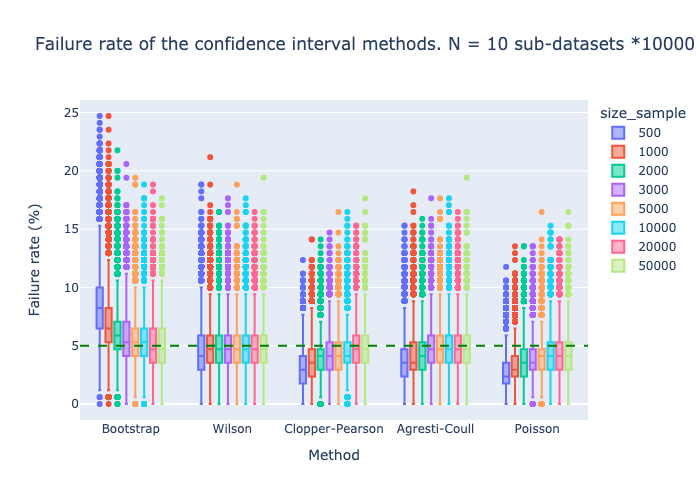
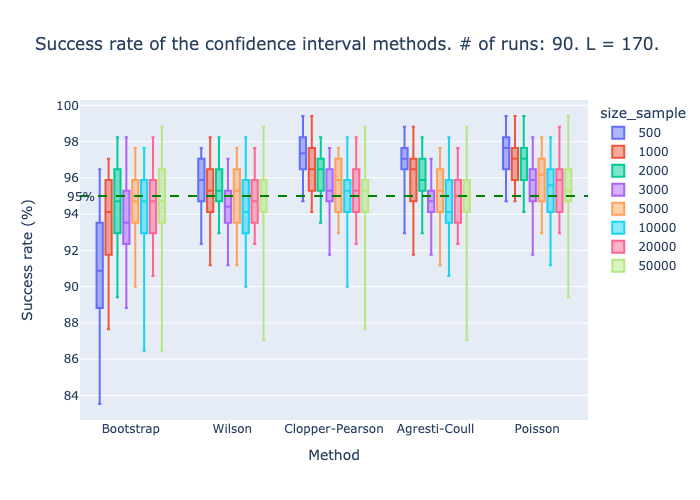
.

diff --git a/src/src.py b/src/src.py
@@ -44,7 +44,9 @@ def predict_confidence_interval_binomial_distribution(observed_freq, size_sample
     return lower_bound, upper_bound
     
     
-def wilson(p, n, z = 1.96):
+def wilson(p, n, z = 1.96, bias_correction=0):
+    
+    p = np.array(p) + bias_correction
     denominator = 1 + z**2/n
     centre_adjusted_probability = p + z*z / (2*n)
     adjusted_standard_deviation = np.sqrt((p*(1 - p) + z*z / (4*n)) / n)
@@ -65,6 +67,8 @@ def predict_confidence_interval_poisson(observed_freq, size_sample, alpha=0.05):
     mut = observed_freq*size_sample
     return 0.5*scipy.stats.chi2.ppf(alpha/2, df=2*mut)/cov, 0.5*scipy.stats.chi2.ppf(1-alpha/2, df=2*(mut+1))/cov
 
+def failure_to_success(arr):
+    return [100 - m for m in arr]
 
 def compare_methods():
     
@@ -142,12 +146,12 @@ def compare_methods():
         
         df = pd.DataFrame(
             {
-                'Bootstrap': np.array(failures['binomial']).flatten(), 
+                'Bootstrap': failure_to_success(np.array(failures['binomial']).flatten()), 
                 #'Binomial': np.array(failures['binomial']).flatten(), 
-                'Wilson': np.array(failures['wilson']).flatten(),
-                'Clopper-Pearson': np.array(failures['clopper_pearson']).flatten(),
-                'Agresti-Coull': np.array(failures['agresti_coull']).flatten(),
-                'Poisson': np.array(failures['poisson']).flatten(),
+                'Wilson': failure_to_success(np.array(failures['wilson']).flatten()),
+                'Clopper-Pearson': failure_to_success(np.array(failures['clopper_pearson']).flatten()),
+                'Agresti-Coull': failure_to_success(np.array(failures['agresti_coull']).flatten()),
+                'Poisson': failure_to_success(np.array(failures['poisson']).flatten()),
                 'size_sample': size_sample,
             })
 
@@ -165,16 +169,14 @@ def compare_methods():
             })
         size_df = pd.concat([size_df, df], axis=0)
         
-    fig = px.box(failures_df, y=[c for c in df.columns if c != 'size_sample'], color='size_sample', title='Failure rate of the confidence interval methods. N = {} sub-datasets *{} datasets. L = 170.'.format(bootstrap_iterations, n_trials_per_dataset, len(os.listdir(DATAPATH))))
-    fig.update_yaxes(title_text="Failure rate (%)")
-    fig.update_xaxes(title_text="Method")
-    # don't show dots
-    fig.update_traces(marker_size=0)
-    
-    
-    # add a horizontal line at y=5 all the way across the figure legend y=5 
-    fig.add_shape(type="line", x0=0, y0=5, x1=1, y1=5, line=dict(color="Green", width=2, dash="dash"), xref="paper", yref="y")
-
+    fig = px.box(failures_df, y=[c for c in df.columns if c != 'size_sample'], color='size_sample', title='Success rate of the confidence interval methods. # of runs: {}. L = 170.'.format(3*n_trials_per_dataset * len(os.listdir(DATAPATH))))
+    fig.update_yaxes(title_text="Success rate (%)")
+    fig.update_xaxes(title_text="Method")    
+    fig.update_traces(boxpoints=False) 
+    #   add a horizontal line at y=5 all the way across the figure legend y=5 
+    fig.add_shape(type="line", x0=0, y0=95, x1=1, y1=95, line=dict(color="Green", width=2, dash="dash"), xref="paper", yref="y")
+    # label that line "95%"
+    fig.add_annotation(x=-0.03, y=95, text="95%", showarrow=False, xref="paper", yref="y")
     fig.show()
     
     # a = fig.to_html()
@@ -201,7 +203,7 @@ def how_to_pick_N():
     df = pd.DataFrame(columns=SIZE_SAMPLE, index = P)
     for n in SIZE_SAMPLE:
         for p in P:
-            df.loc[p, n] = wilson(p, n)[1] - wilson(p, n)[0]
+            df.loc[p, n] = wilson(p, n, bias_correction=1E-3)[1] - wilson(p, n, bias_correction=1E-3)[0]
     
     fig = px.line(df, x=P, y=SIZE_SAMPLE, title='How to pick N?', labels={'x': 'Mutation rate', 'y': 'Size of the CI'})
 
@@ -213,7 +215,6 @@ def how_to_pick_N():
     )
     
     fig.update_xaxes(title_text="Mutation rate")
-    fig.show()
     
     # a = fig.to_html()
     # with open(os.path.join(FIGPATH, 'how_to_pick_N.html'), 'w') as f:
@@ -238,7 +239,6 @@ def plot_mr_distribution():
         yaxis_title = 'Count',
     )
     
-    fig.show()
     
     # a = fig.to_html()
     # with open(os.path.join(FIGPATH, 'mr_distribution.html'), 'w') as f:

diff --git a/src/dms_ci.py b/src/dms_ci.py
@@ -1,4 +1,4 @@
-from src import wilson
+from .src import wilson
 
 def dms_ci(p, n, z = 1.96):
     """Provides confidence intervals for DMS-MaPseq data.
@@ -27,8 +27,9 @@ def dms_ci(p, n, z = 1.96):
     Notes
     -----
 
-    The confidence intervals are calculated using the Wilson score interval.
+    The confidence intervals are calculated using the Wilson score interval. The bias correction is set to 1E-3, to balance for the substitution errors in the sequencing. 
 
     """
-    return wilson(p, n, z)
+    
+    return wilson(p, n, z, bias_correction=1E-3)
     

diff --git a/README.md b/README.md
@@ -92,15 +92,15 @@ We will assume that:
 
 ### Model 
 
-$$p_{err_seq} = 10^{-3}$$
+$$p_{errseq} = 10^{-3}$$
 
-$$ p \sim Bin(N, \frac{n}{N}) -  Bin(N, p_{err_seq}) $$
+$$ p \sim Bin(N, \frac{n}{N}) -  Bin(N, p_{errseq}) $$
 
 where p is the substitution rate in the sample, $n$ is the number of mutations and $N$ is the number of reads.
 
-Given the small value of $p_{err_seq}$, we can approximate the binomial distribution as follows:
+Given the small value of $p_{errseq}$, we can approximate the distribution as follows:
 
-$$ p \sim Bin(N,max(0, \frac{n}{N} - p_{err_seq}))$$
+$$ p \sim Bin(N,max(0, \frac{n}{N} - p_{errseq}))$$
 
 
 
@@ -108,7 +108,7 @@ $$ p \sim Bin(N,max(0, \frac{n}{N} - p_{err_seq}))$$
 
 We use the **Wilson score interval**, which is a method to calculate confidence intervals for binomial distributions.
 
-$$ \hat{p} = max(0, \frac{n}{N} - p_{err_seq}) $$
+$$ \hat{p} = max(0, \frac{n}{N} - p_{errseq}) $$
 
 $$ z_{\alpha/2} = \Phi^{-1}(1-\alpha/2) $$
 
@@ -151,7 +151,7 @@ According to [the binomial sum variance inequality](https://en.wikipedia.org/wik
 
 $$ Var(f([p_1, p_2, ..., p_N])) ≤ Np(1-p) $$ 
 
-where $p = \frac{1}{N} \sum_{i=1}^{N} p_i $.
+where $p = \frac{1}{N} \sum{i=1}^{N} p_i $.
 
 We can then use the binomial distribution $X \sim Bin(N, p)$ to approximate $f([p_1, p_2, ..., p_N])$.
 
